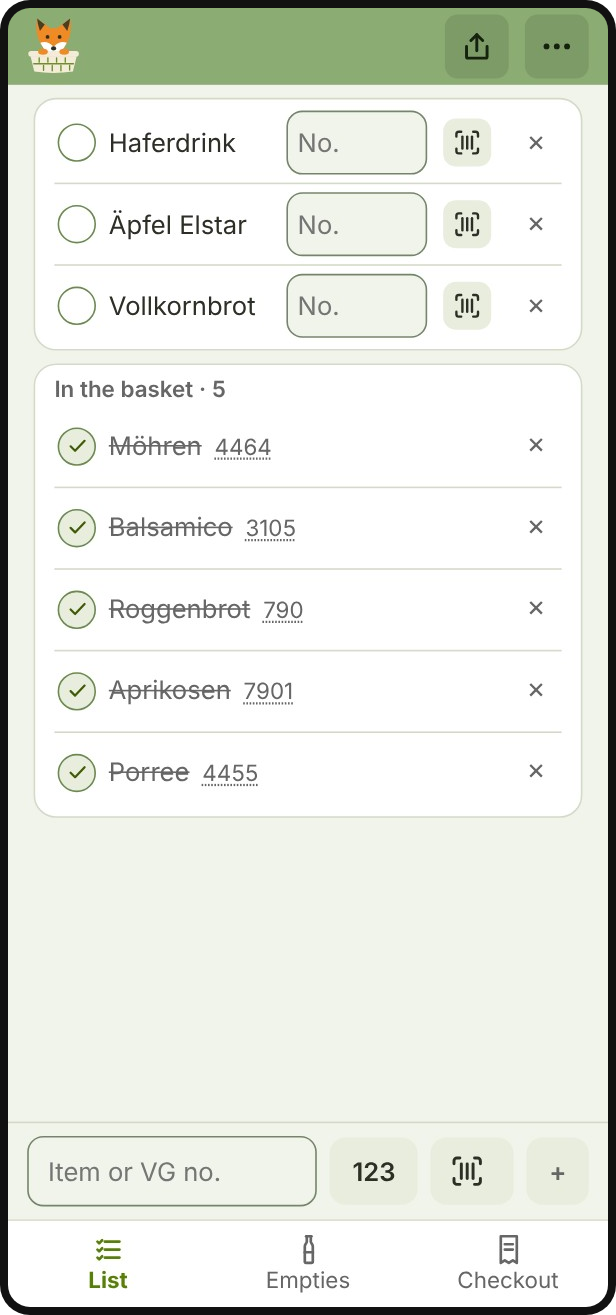
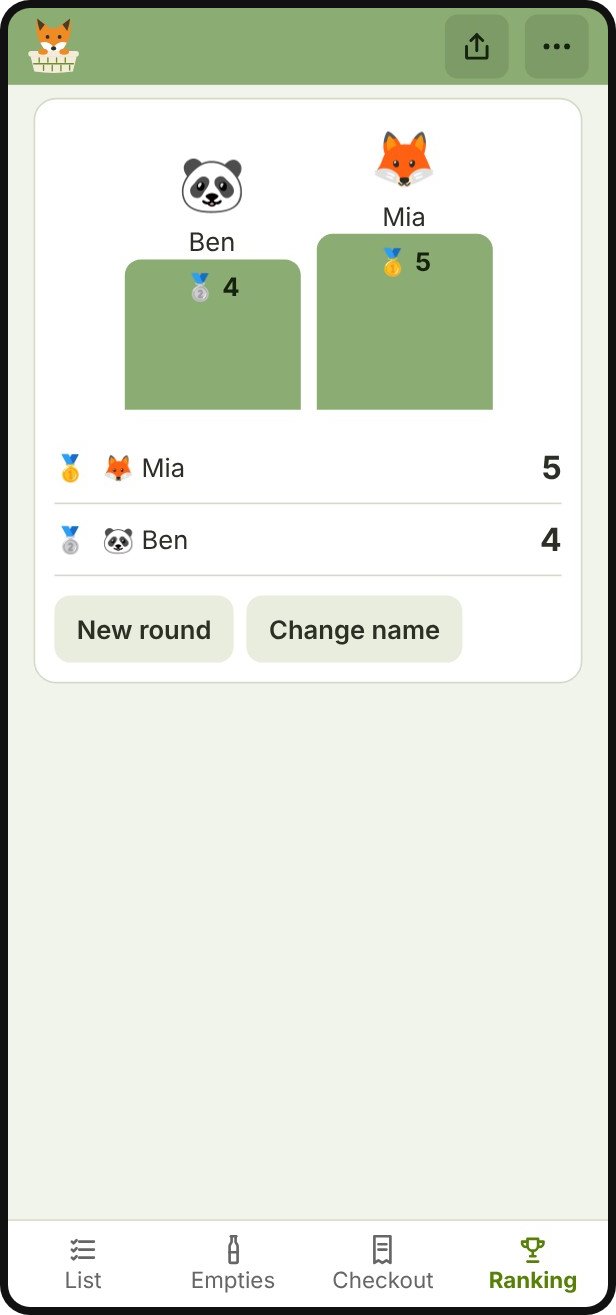
README picture: ranking screen in the phone frame
Claude-Session: https://claude.ai/code/session_017MvQXjPuy8Sykzx3Vu5JoR

diff --git a/AGENTS.md b/AGENTS.md
@@ -15,7 +15,7 @@ Guidance for AI agents and humans working on **Kober** (repository `kober`): a s
 - `public/` is the whole app (static, ES modules, no build). Served by GitHub Pages.
   - `app.js` UI and flows, `flows.js` the pure logic behind some flows (reset plan, too-long numbers, checkout ticks, VG loader state, first upload; DOM-free so `test/flows.test.js` covers it), `store.js` data layer, `vg.js` VG data/import, `i18n.js` texts, `sw.js` service worker, `legal-config.js` contact for the privacy page.
   - `privacy.html`, `docs/index.html` (help page for end users), `vendor/` (third-party: qrcode and crypto-js MIT, zxing Apache 2.0 with `zxing-LICENSE.txt`; excluded from checks). `privacy.html` and `docs/index.html` load their script from `privacy.js` and `docs/help.js`: all pages carry a Content-Security-Policy `<meta>` without inline scripts (`test/csp.test.js`). A new external host (fetch, script) must be added to the CSP in `index.html`.
-- Help page screenshots (`public/docs/img/<lang>-<scene>.jpg`) are built **locally and only when the user explicitly asks for it** (not in CI, not automatically after UI changes). The agent runs `npm run docs:screenshots` (`scripts/docs-screenshots.mjs`: `playwright-core` with the installed Chrome or `CHROME_PATH`, the real app in demo mode with Firebase off, invented VG demo data from `scripts/fixtures/vg/`, 375px, German and English). **Every generated image must be looked at (Read tool) before it is committed**: no cut-off or overlapping text, no toast or demo banner, no half-rendered state, the right language, the current UI (new buttons, colours). If something is off, fix the script or the app and render again. `npm run docs:screenshots -- /tmp/shots` previews without touching the repo. The same run also writes `en-readme.png` (the README picture: the English list with more items in a rounded phone frame, transparent corners); it is not part of the help page, so regenerate and commit it together with the other images when the UI changes visibly. **Order of work: screenshots come last.** Implement everything else first (code, texts, docs, tests), commit and push that, and only then render, check and commit the images, followed by a second push. Rendering earlier wastes work because every further UI change makes the images stale again. The images are not refreshed by UI changes on their own: when a change is visible in a screenshot scene, tell the user and offer to regenerate.
+- Help page screenshots (`public/docs/img/<lang>-<scene>.jpg`) are built **locally and only when the user explicitly asks for it** (not in CI, not automatically after UI changes). The agent runs `npm run docs:screenshots` (`scripts/docs-screenshots.mjs`: `playwright-core` with the installed Chrome or `CHROME_PATH`, the real app in demo mode with Firebase off, invented VG demo data from `scripts/fixtures/vg/`, 375px, German and English). **Every generated image must be looked at (Read tool) before it is committed**: no cut-off or overlapping text, no toast or demo banner, no half-rendered state, the right language, the current UI (new buttons, colours). If something is off, fix the script or the app and render again. `npm run docs:screenshots -- /tmp/shots` previews without touching the repo. The same run also writes `en-readme.png` (the README picture: the English ranking screen in a rounded phone frame, transparent corners); it is not part of the help page, so regenerate and commit it together with the other images when the UI changes visibly. **Order of work: screenshots come last.** Implement everything else first (code, texts, docs, tests), commit and push that, and only then render, check and commit the images, followed by a second push. Rendering earlier wastes work because every further UI change makes the images stale again. The images are not refreshed by UI changes on their own: when a change is visible in a screenshot scene, tell the user and offer to regenerate.
 - `scripts/` maintenance scripts: `cleanup-lists.mjs` (cleanup of old lists), `make-icons.mjs` (`npm run icons`: draws the app icon, the fox peeking out of a Kober (a woven basket) on the VG green, and renders `public/icon.svg`, `public/logo.svg` and `public/icons/*.png` with Chrome; bump `VERSION` in `public/sw.js` afterwards). `database.rules.json` Firebase Realtime Database rules (**published by hand in the Firebase console**, see `docs/security.md`).
 - `test/` Node tests (`node --test`, no dependencies). `docs/` developer and maintainer docs (Markdown, English, not deployed; the end-user help page is `public/docs/`, served with the app).
 

diff --git a/README.md b/README.md
@@ -3,7 +3,7 @@
 [![Checks](https://github.com/fbnrst/kober/actions/workflows/autofix.yml/badge.svg)](https://github.com/fbnrst/kober/actions/workflows/autofix.yml)
 [![Deploy](https://github.com/fbnrst/kober/actions/workflows/pages.yml/badge.svg)](https://github.com/fbnrst/kober/actions/workflows/pages.yml)
 
-<img src="public/docs/img/en-readme.png" alt="Kober shopping list on a phone" width="240" align="right">
+<img src="public/docs/img/en-readme.png" alt="The ranking tab on a phone" width="240" align="right">
 
 ### 👉 [Open Kober on your phone](https://fbnrst.github.io/kober/)
 No account, no app store.
